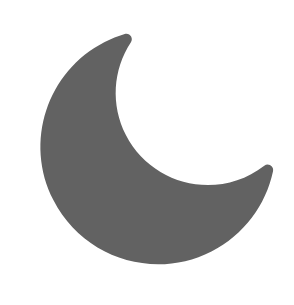
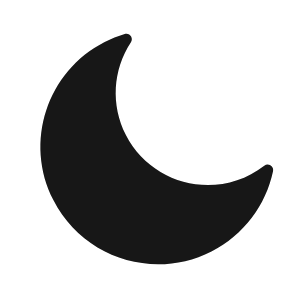
added light mode

Changed region(s): [[0.1224, 0.0885, 0.949, 0.8852]]

diff --git a/MyWeb/index.html b/MyWeb/index.html
@@ -6,7 +6,7 @@
     <meta name="viewport" content="width=device-width, initial-scale=1.0">
     <link rel="stylesheet" href=style.css>
     <!-- Favicon -->
-    <link rel="icon" type="image/x-icon" href="/images/favicon.ico">
+    <link rel="icon" type="image/x-icon" href="images/favicon.ico">
      <!-- Font Awesome -->
     <link rel="stylesheet" href="https://cdnjs.cloudflare.com/ajax/libs/font-awesome/5.15.4/css/all.min.css">
     <title>Ghaida's Website</title>
@@ -19,9 +19,10 @@
     <link rel="preconnect" href="https://fonts.googleapis.com">
     <link rel="preconnect" href="https://fonts.gstatic.com" crossorigin>
     <link href="https://fonts.googleapis.com/css2?family=Changa:wght@600&display=swap" rel="stylesheet">
-    <!--socials icons CDN-->
-    <link rel="stylesheet" href="https://cdnjs.cloudflare.com/ajax/libs/font-awesome/6.0.0-beta2/css/all.min.css" 
-    integrity="sha512-YWzhKL2whUzgiheMoBFwW8CKV4qpHQAEuvilg9FAn5VJUDwKZZxkJNuGM4XkWuk94WCrrwslk8yWNGmY1EduTA==" crossorigin="anonymous" referrerpolicy="no-referrer" />
+    <!--CDN to take socials icons &drak mode-->
+    <link rel="stylesheet" href="https://cdnjs.cloudflare.com/ajax/libs/font-awesome/6.1.1/css/all.min.css" integrity="sha512-KfkfwYDsLkIlwQp6LFnl8zNdLGxu9YAA1QvwINks4PhcElQSvqcyVLLD9aMhXd13uQjoXtEKNosOWaZqXgel0g==" crossorigin="anonymous" referrerpolicy="no-referrer" />
+    
+    <link rel="stylesheet" href="https://cdn.jsdelivr.net/npm/bootstrap-icons@1.3.0/font/bootstrap-icons.css" />
 
     <style> 
     .logo, h1{
@@ -45,18 +46,21 @@
 
         <div class="navbar-links">
          <ul>
-            <li><a href="#myImg">About Me</a></li> <!--creeper icon-->
-            <li><a href="#skills">Skills</a></li> <!--sowrd-->
-            <li><a href="#portfolio">Portfolio</a></li> <!--chestplate-->
-            <li><a href="#contact">Contact</a></li> <!--earth-->
+            <li><a href="#myImg">About Me</a></li> 
+            <li><a href="#skills">Skills</a></li> 
+            <li><a href="#portfolio">Portfolio</a></li> 
+            <li><a href="#contact">Contact</a></li> 
          </ul>
         </div>
-        <!-- <img src="images/moon.png" id="icon"> -->
+        <!-- if u wanna use icons form boostrab/fontawesome -->
+        <!-- <i class="fa-solid fa-sun" id="sunToggle"></i> -->
+        <!-- moon icon id is 'bi-moon' -->
+        <img src="images/sun.png"id=sunToggle>
     </nav>
 
     <section id="aboutMe">
         <h1> <span >01</span> About Me</h1>
-        <img id="myImg" src="/images/me.png" alt="my img">
+        <img id="myImg" src="images/me.png" alt="my img">
         <h1 data-aos="fade-up" data-aos-duration="1000">I'm </h1>
         <h1 data-aos="fade-up" data-aos-duration="1000">Ghaida Alsaeed</h1>
 
@@ -131,8 +135,8 @@
     
 <footer>
     <div class="container">
-       <img id="waves" src="/images/wave.png" alt="waves">
-       <div class="copyRights">Created By <span style="color: black;"> Ghaida</span> &nbsp; |&nbsp; &copy; All Copyrights Reserved.<div>
+       <img id="waves" src="images/wave.png" alt="waves">
+       <div class="copyRights">Created By &nbsp;Ghaida &nbsp; |&nbsp; &copy; All Copyrights Reserved.<div>
     </div>   
 </footer>
 

diff --git a/MyWeb/style.css b/MyWeb/style.css
@@ -11,7 +11,17 @@ html{
 
 
 body{
-    background-color: rgb(32, 32, 32);
+    background-color: var(--primary-color);
+}
+
+:root{
+    --primary-color:#202020;
+    --secondary-color:#FFFFFF; 
+}
+
+.light-theme{
+    --primary-color:#e8e8e8;
+    --secondary-color:#202020;
 }
 
 .navbar{
@@ -30,6 +40,15 @@ body{
     padding: 5px;
     margin-left: 50px;
 }
+
+#sunToggle{
+    cursor: pointer;
+    width:21px;
+    left:272px;
+    top: 44px; 
+    position: absolute;
+}/*applies also on the moon icon since we toggle em in js*/
+
 
 .navbar-links {
     height: 100%;
@@ -101,16 +120,17 @@ h1 span{
     width: 250px;
     margin-top: 35px;
     margin-bottom: 35px;
+    
 }
 
 #aboutMe h1{
-   color: white;
+   color: var(--secondary-color);
    letter-spacing: 1px;
    margin-bottom: 40px;
 }
 
 #aboutMe p{
-    color: white;
+    color: var(--secondary-color);
     width:50% ;
     text-align: center;
     margin-bottom: 50px;
@@ -134,7 +154,7 @@ h1 span{
  }
 
 #skills h1{
-    color: white;
+    color: var(--secondary-color);
     text-align: center;
     letter-spacing: 1px;
     margin-bottom: 60px;
@@ -142,13 +162,13 @@ h1 span{
 }
 
 #skills p{
-    color: white;
+    color: var(--secondary-color);
     width:50% ;
     text-align: center;
 }
 
 #portfolio h1{
-    color: white;
+    color: var(--secondary-color);
     text-align: center;
     letter-spacing: 1px;
     margin-bottom: 100px;
@@ -156,9 +176,9 @@ h1 span{
 }
 
 #portfolio p{
-    color: white;
+    color: var(--secondary-color);
     width:50% ;
-    text-align: center;;
+    text-align: center;
 }
 
 .container {
@@ -172,7 +192,7 @@ h1 span{
 
 .copyRights{
     font-size: .85rem;
-    color: rgb(99, 96, 96);
+    color: rgb(49, 47, 47);
     bottom:10px;
     left: 10px;
     position: absolute;
@@ -180,13 +200,13 @@ h1 span{
 }
 
 #contact h1{
-    color: white;
+    color: var(--secondary-color);
     margin-bottom: 100px;
     letter-spacing: 1px;
 }
 
 #contact p{
-    color: white;
+    color: var(--secondary-color);
     padding: 35px;
     letter-spacing: 1px;
 }
@@ -194,11 +214,12 @@ h1 span{
 #contact .box{
    height:150px;
    width: 50%;
-   background: white;
+   background:#FFFFFF;
    border-radius: 30px;
    display: flex;
    justify-content:space-around;
    align-items: center;
+   box-shadow: 5px 5px 20px rgba(0,0,0,0.1);
 }
 
 #contact .box .socialIcons{
@@ -238,7 +259,7 @@ h1 span{
     padding: 25px 30px;
     width: 50%;
     background: #fff;
-    box-shadow: 5px 5px 20px rgba(0,0,0,0.2);
+    box-shadow: 5px 5px 20px rgba(0,0,0,0.1); 
     border-radius: 10px;
   }
   .skill-bars .bar{
@@ -327,13 +348,6 @@ h1 span{
     animation: showText2 0.5s 1.5s linear forwards;
   }
   
-  /*drak moodx
-   #icon{
-       width: 30px;
-       cursor: pointer;
-       margin-right: 30px;
-   }
-   */
 
 /*for smaller screens */
 @media(max-width:860px){ 
@@ -376,6 +390,15 @@ h1 span{
         padding: 12px;
         margin-left: 50px;
     }
+
+    #sunToggle{
+        left:210px;
+        top: 12px;
+        cursor: pointer;
+        position: absolute;
+        width:18px;
+     } 
+
     .navbar-links ul{
         display: flex;
         margin:0;

diff --git a/MyWeb/script.js b/MyWeb/script.js
@@ -5,3 +5,14 @@ toggleButton.addEventListener('click', () => {
   navbarLinks.classList.toggle('active')
 })
 
+// dark mode toggle
+var sunToggle=document.getElementById("sunToggle");
+
+sunToggle.onclick= function(){
+  document.body.classList.toggle("light-theme");
+  if(document.body.classList.contains("light-theme")){
+    sunToggle.src="images/moon.png";
+  }else{
+    sunToggle.src="images/sun.png";
+  }
+}
